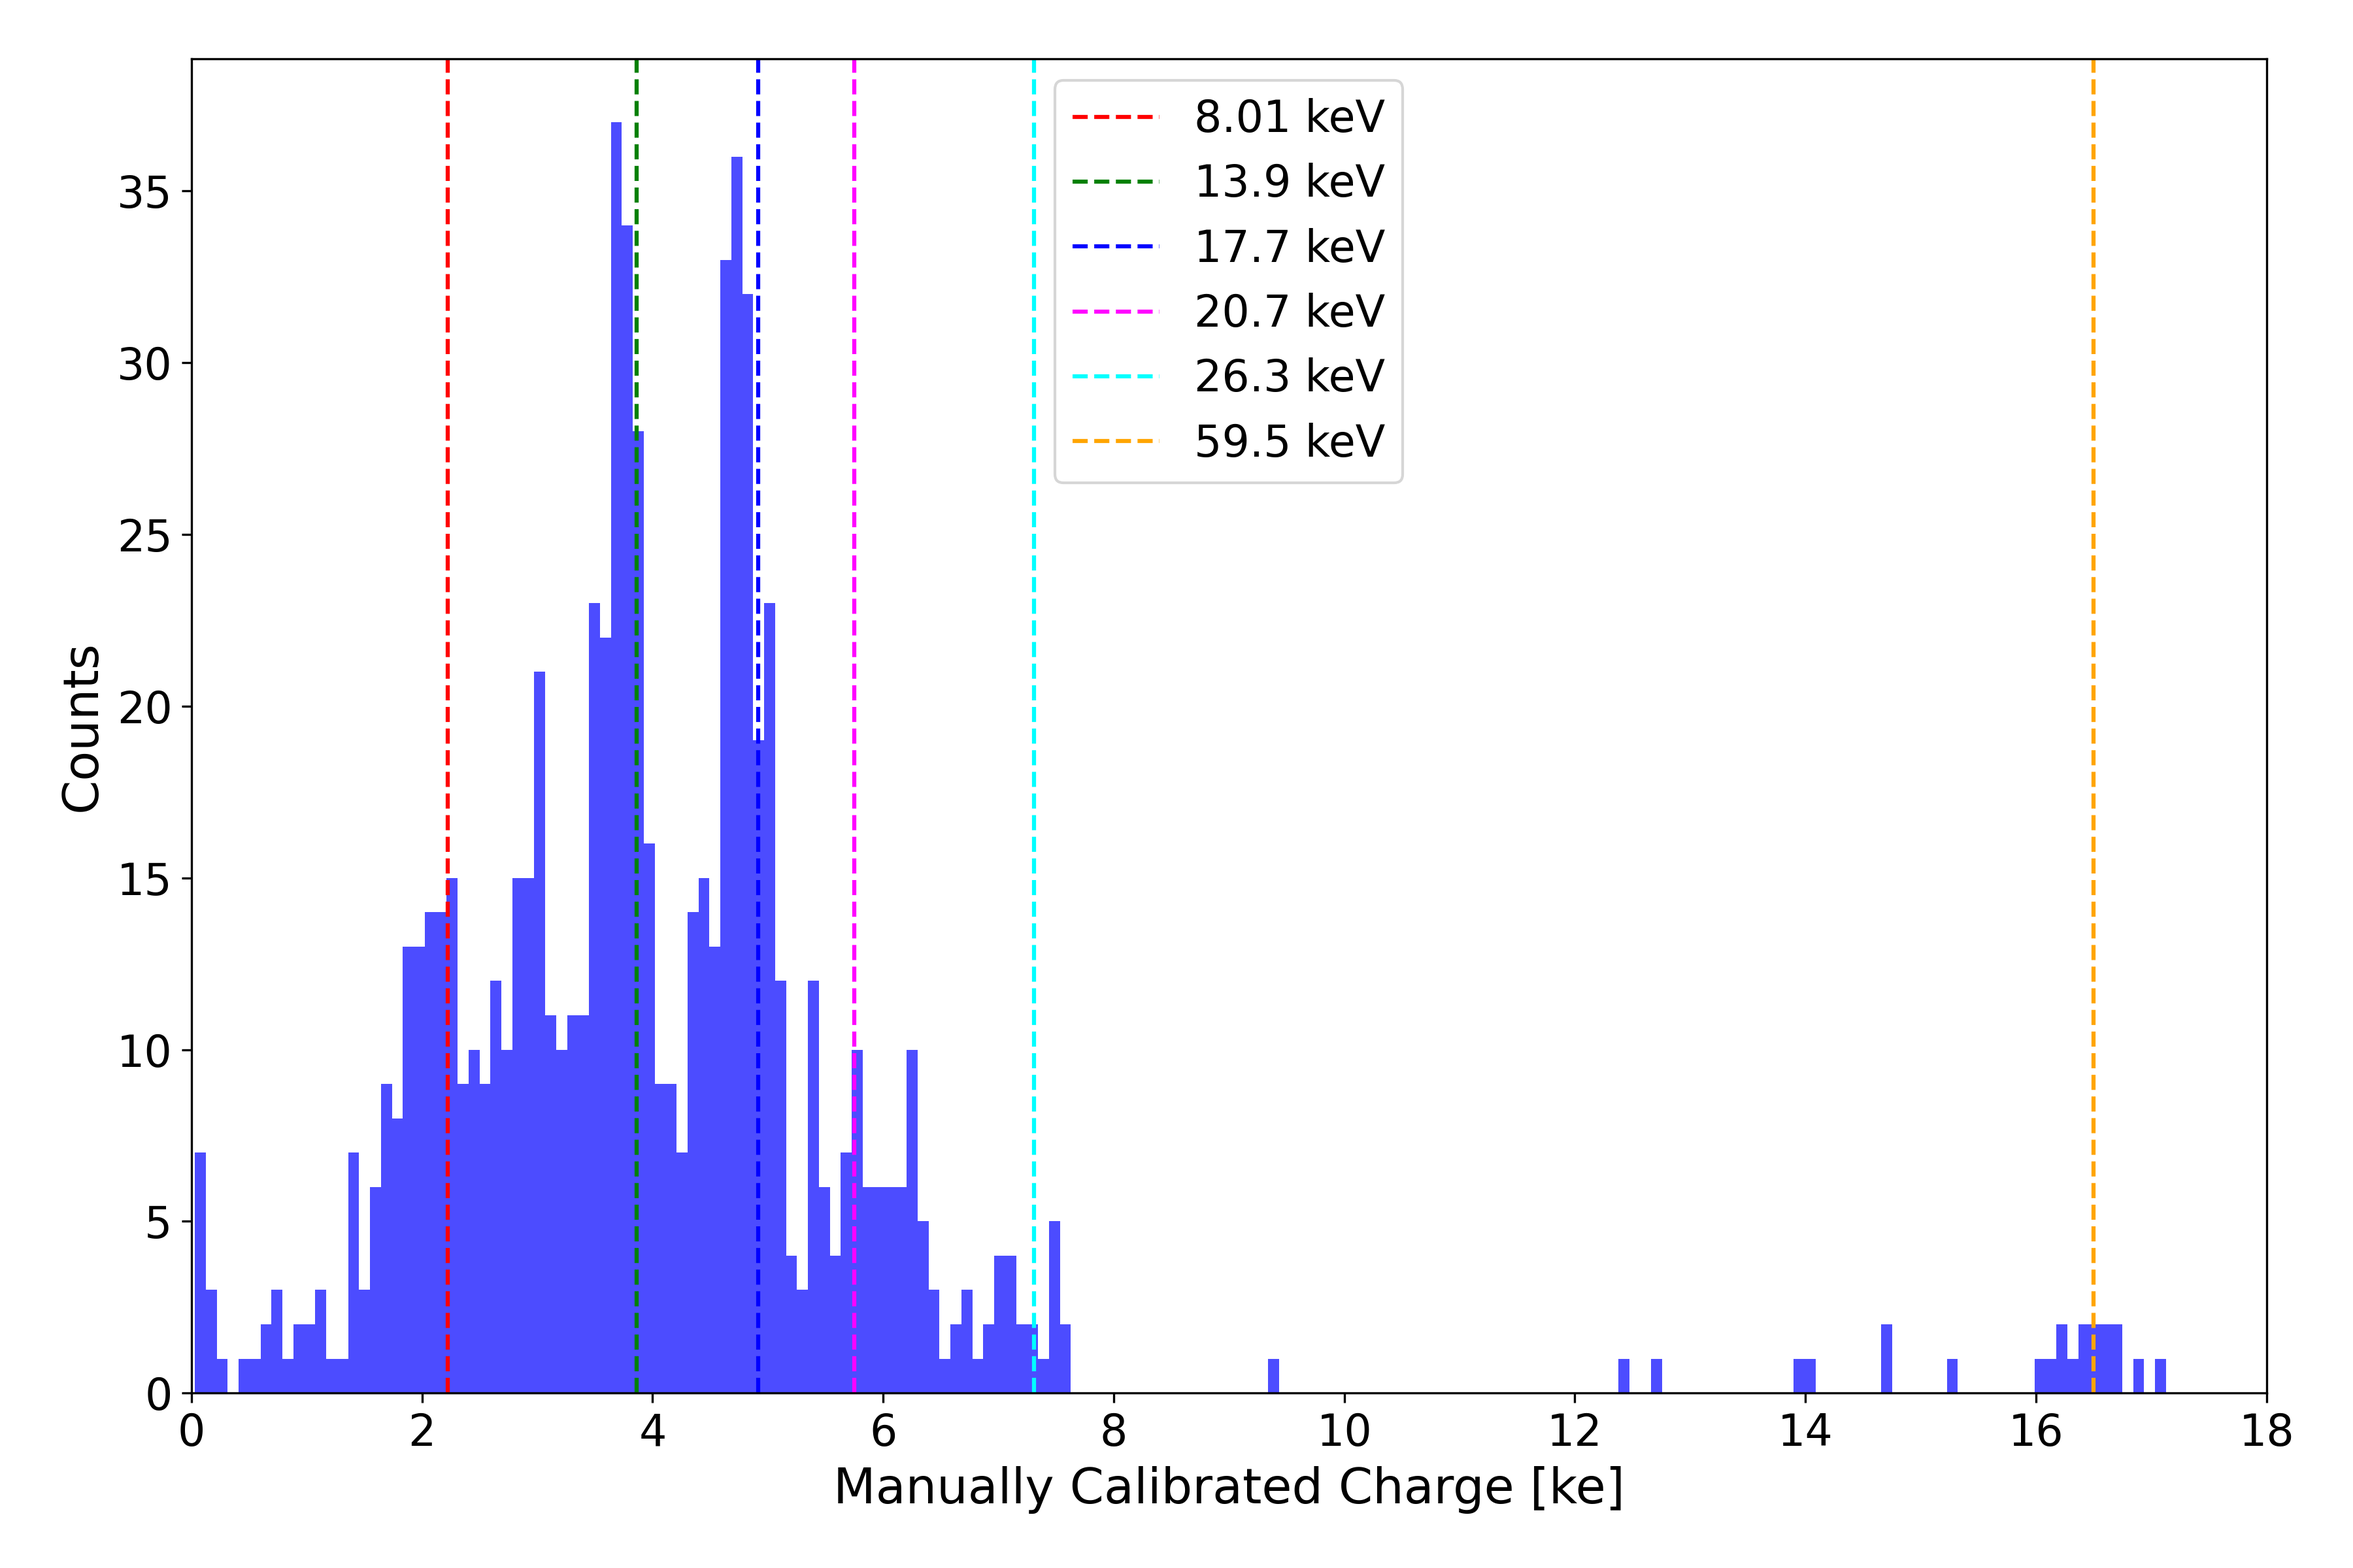
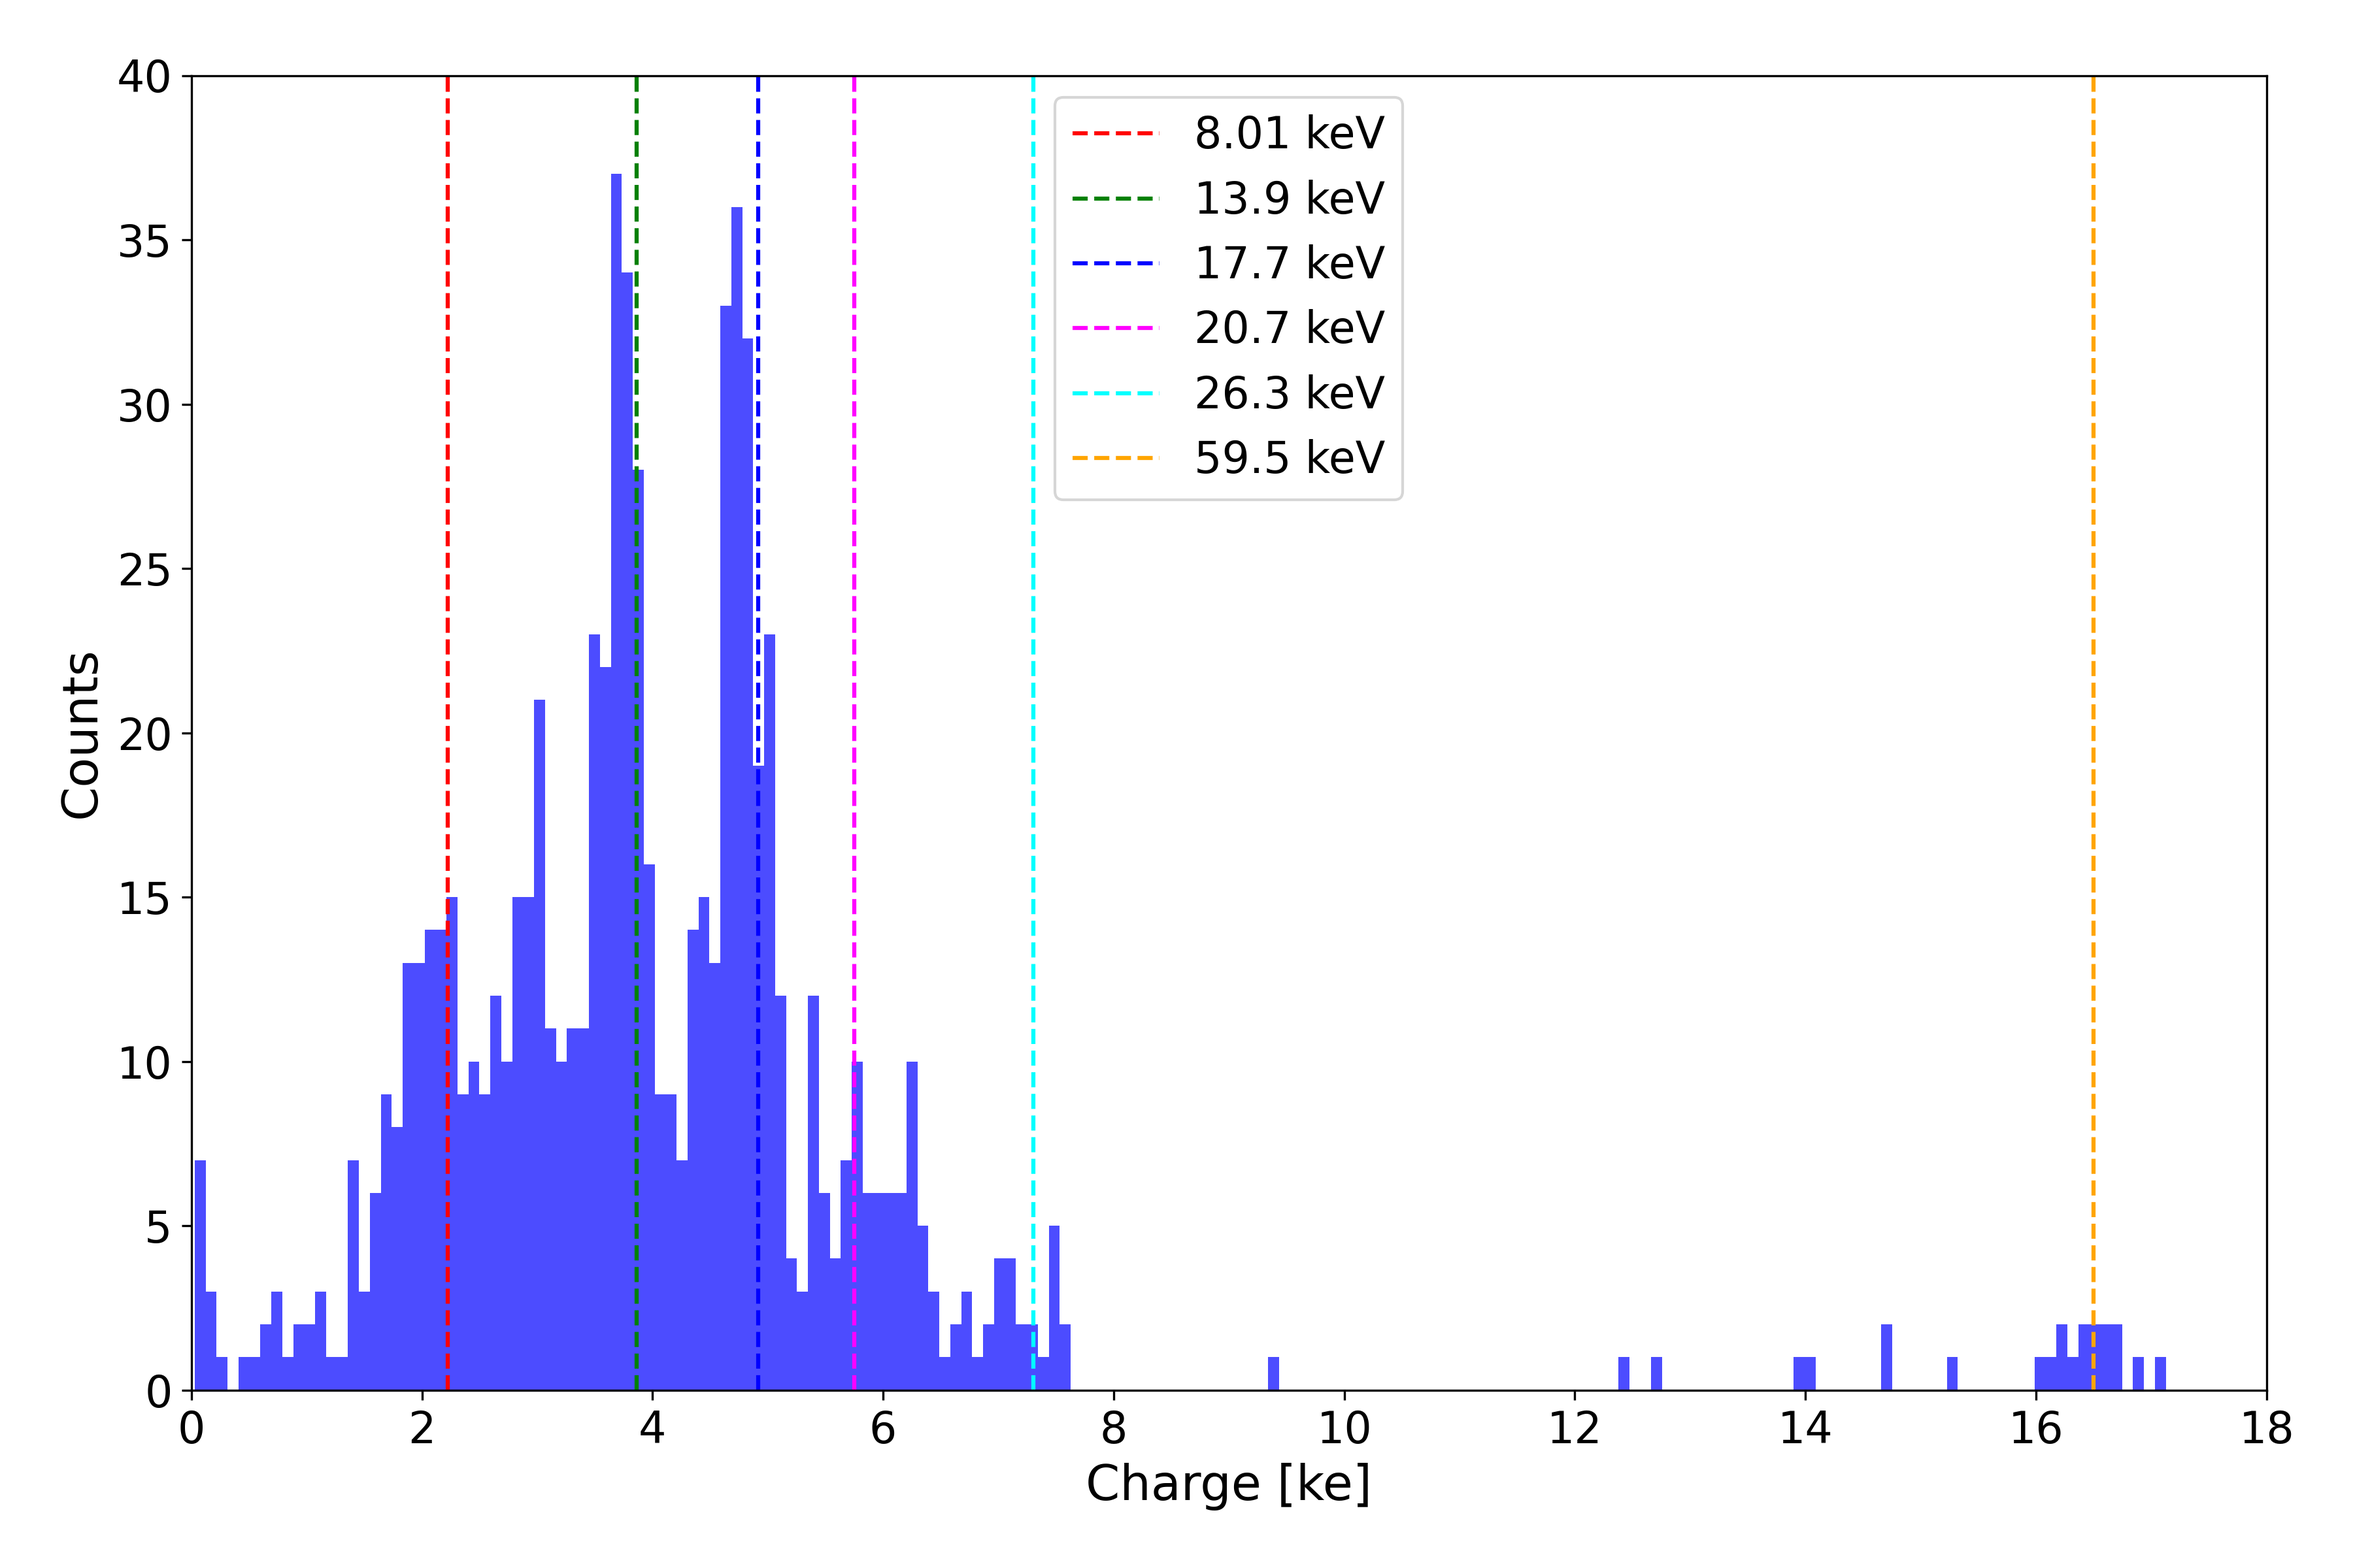
Improved ToT plots.

diff --git a/timepix4/tot/tot_plotter.py b/timepix4/tot/tot_plotter.py
@@ -15,26 +15,29 @@ def ToTPlotter(filepath: str, COL: int = 228, ROW: int = 230) -> None:
     )
     df = pd.read_csv(filepath)
     df = df[(df["col"] == COL) & (df["row"] == ROW)]
-    df = df[((df["Charge"] < 18) & (df["Charge"] > 0))]
+    df = df[df["tot"] > 0]
+    # df = df[((df["Charge"] < 18) & (df["Charge"] > 0))]
     # mean = df[df["tot"] > 150]["tot"].mean()
     # mean = df["Charge"].mean()
     plt.figure(figsize=(12, 8))
     plt.hist(
-        # df["tot"] * 0.10437223461349657,
-        df["Charge"],
-        bins=120,
+        # df["tot"],
+        df["tot"] * 0.10437223461349657,
+        # df["Charge"],
+        bins=180,
         color="blue",
         alpha=0.7,
         # label=f"Pixel ({COL}, {ROW}); Mean above threshold: {mean:.2f} [25 ns]",
     )
-    # plt.axvline(150, color="red", linestyle="--", label="Threshold")
     # plt.xlabel("ToT [25 ns]")
-    plt.xlabel("Test Pulse Calibrated Charge [ke]")
+    plt.xlabel("Charge [ke]")
     plt.ylabel("Counts")
     # plt.title(f"ToT Histogram for Pixel ({COL}, {ROW})")
     # plt.xlim(0, 200)
+    # plt.ylim(0, 70)
     # plt.xticks(range(0, 201, 20))
     plt.xlim(0, 18)
+    plt.ylim(0, 40)
     plt.xticks(range(0, 19, 2))
     vlines = [
         {"x": 2.225, "color": "red", "label": "8.01 keV"},
